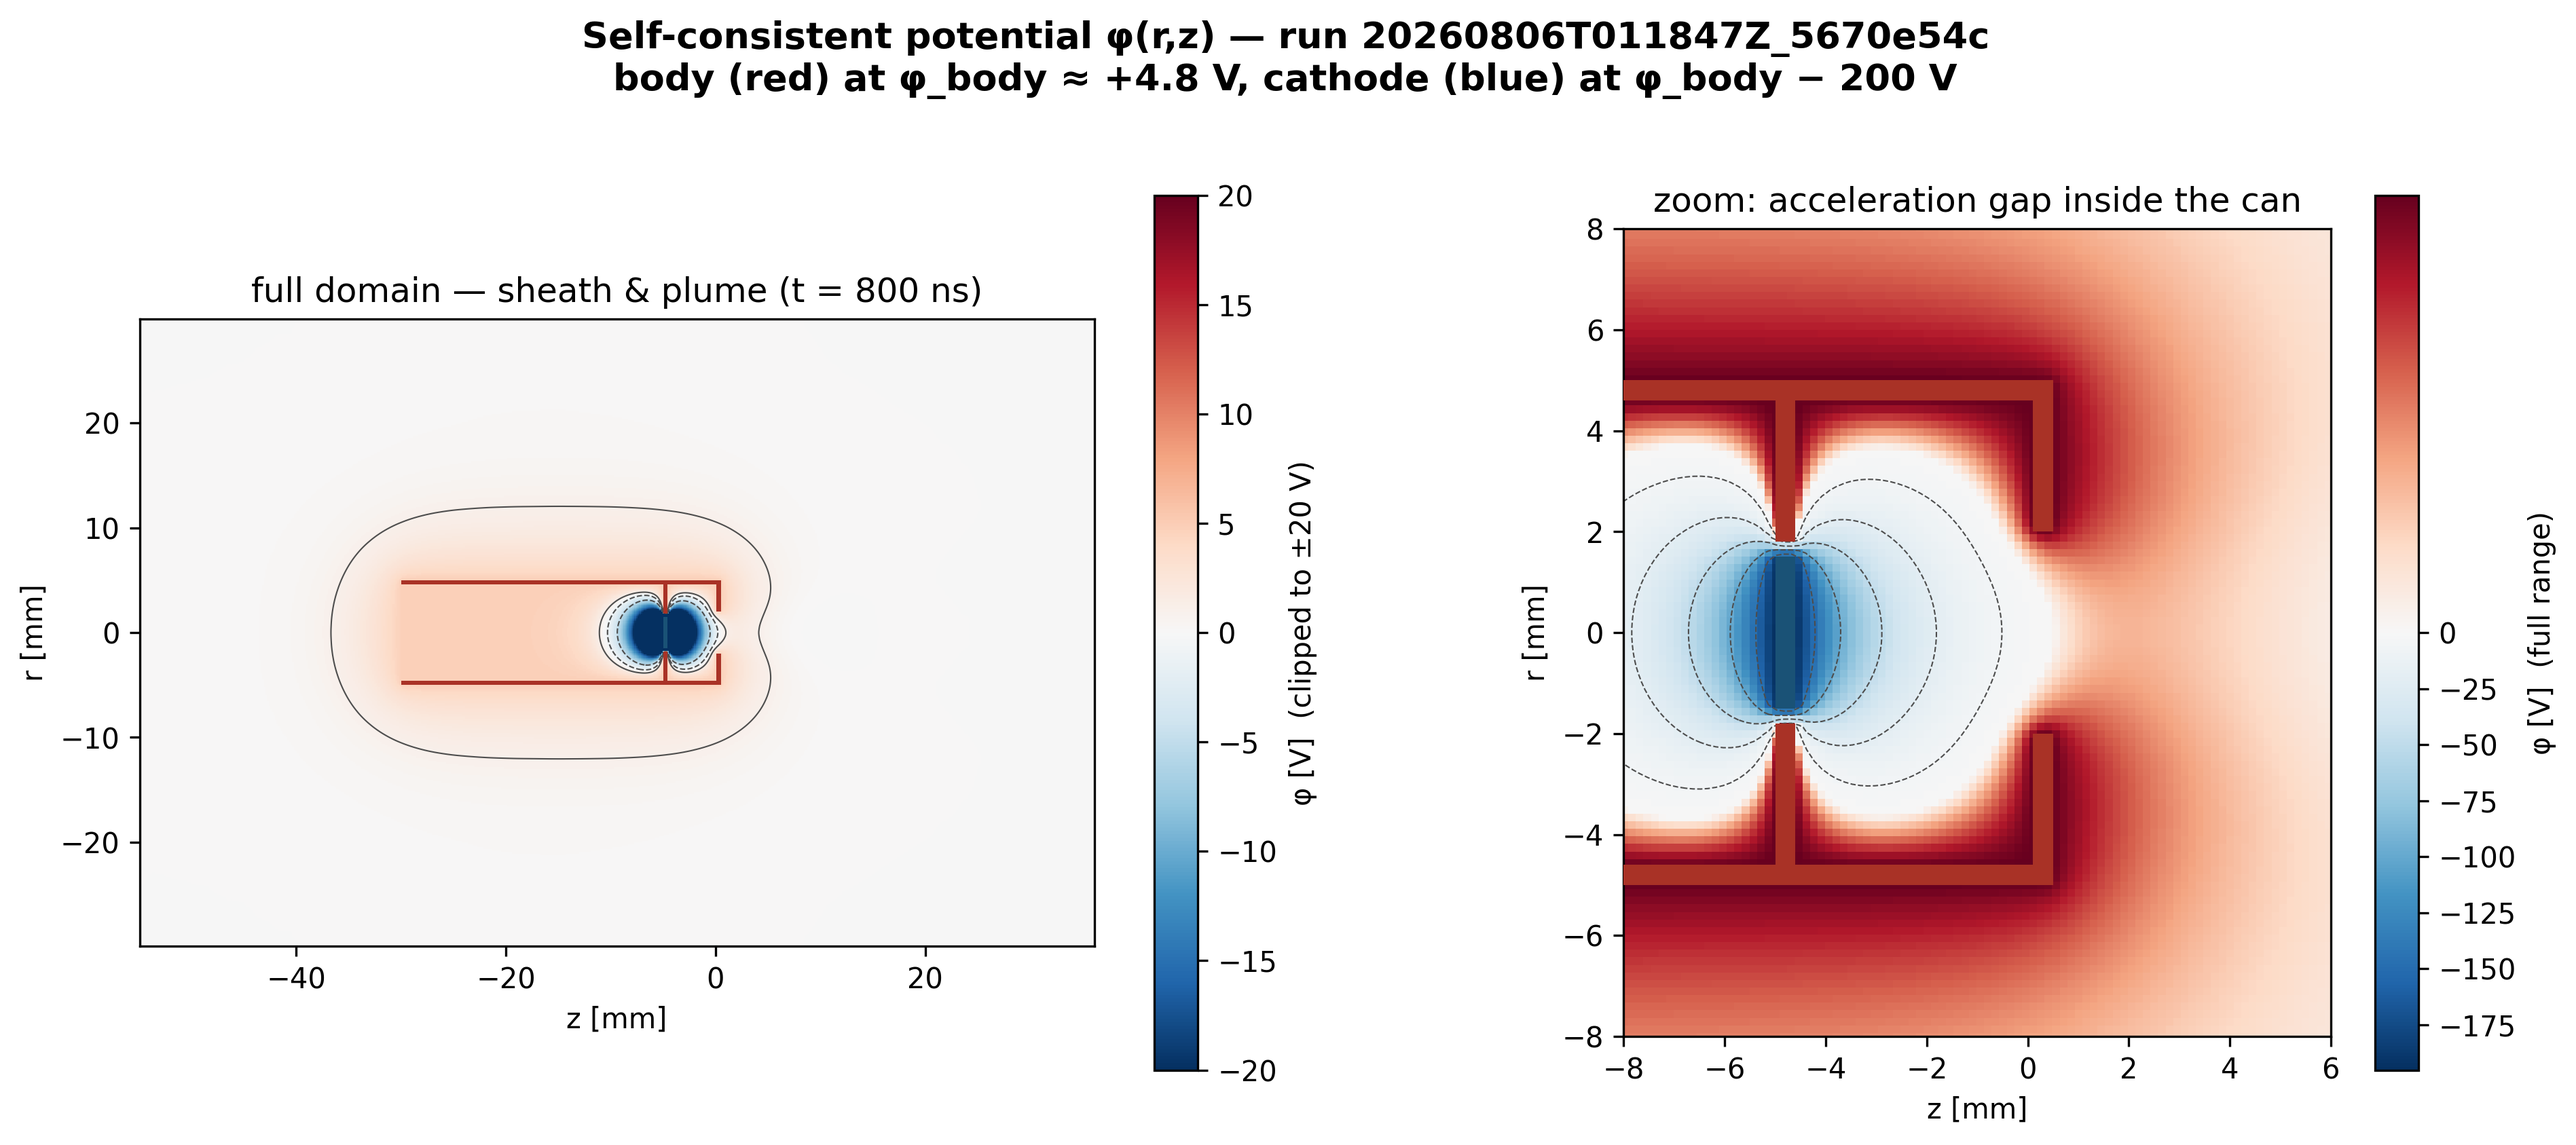
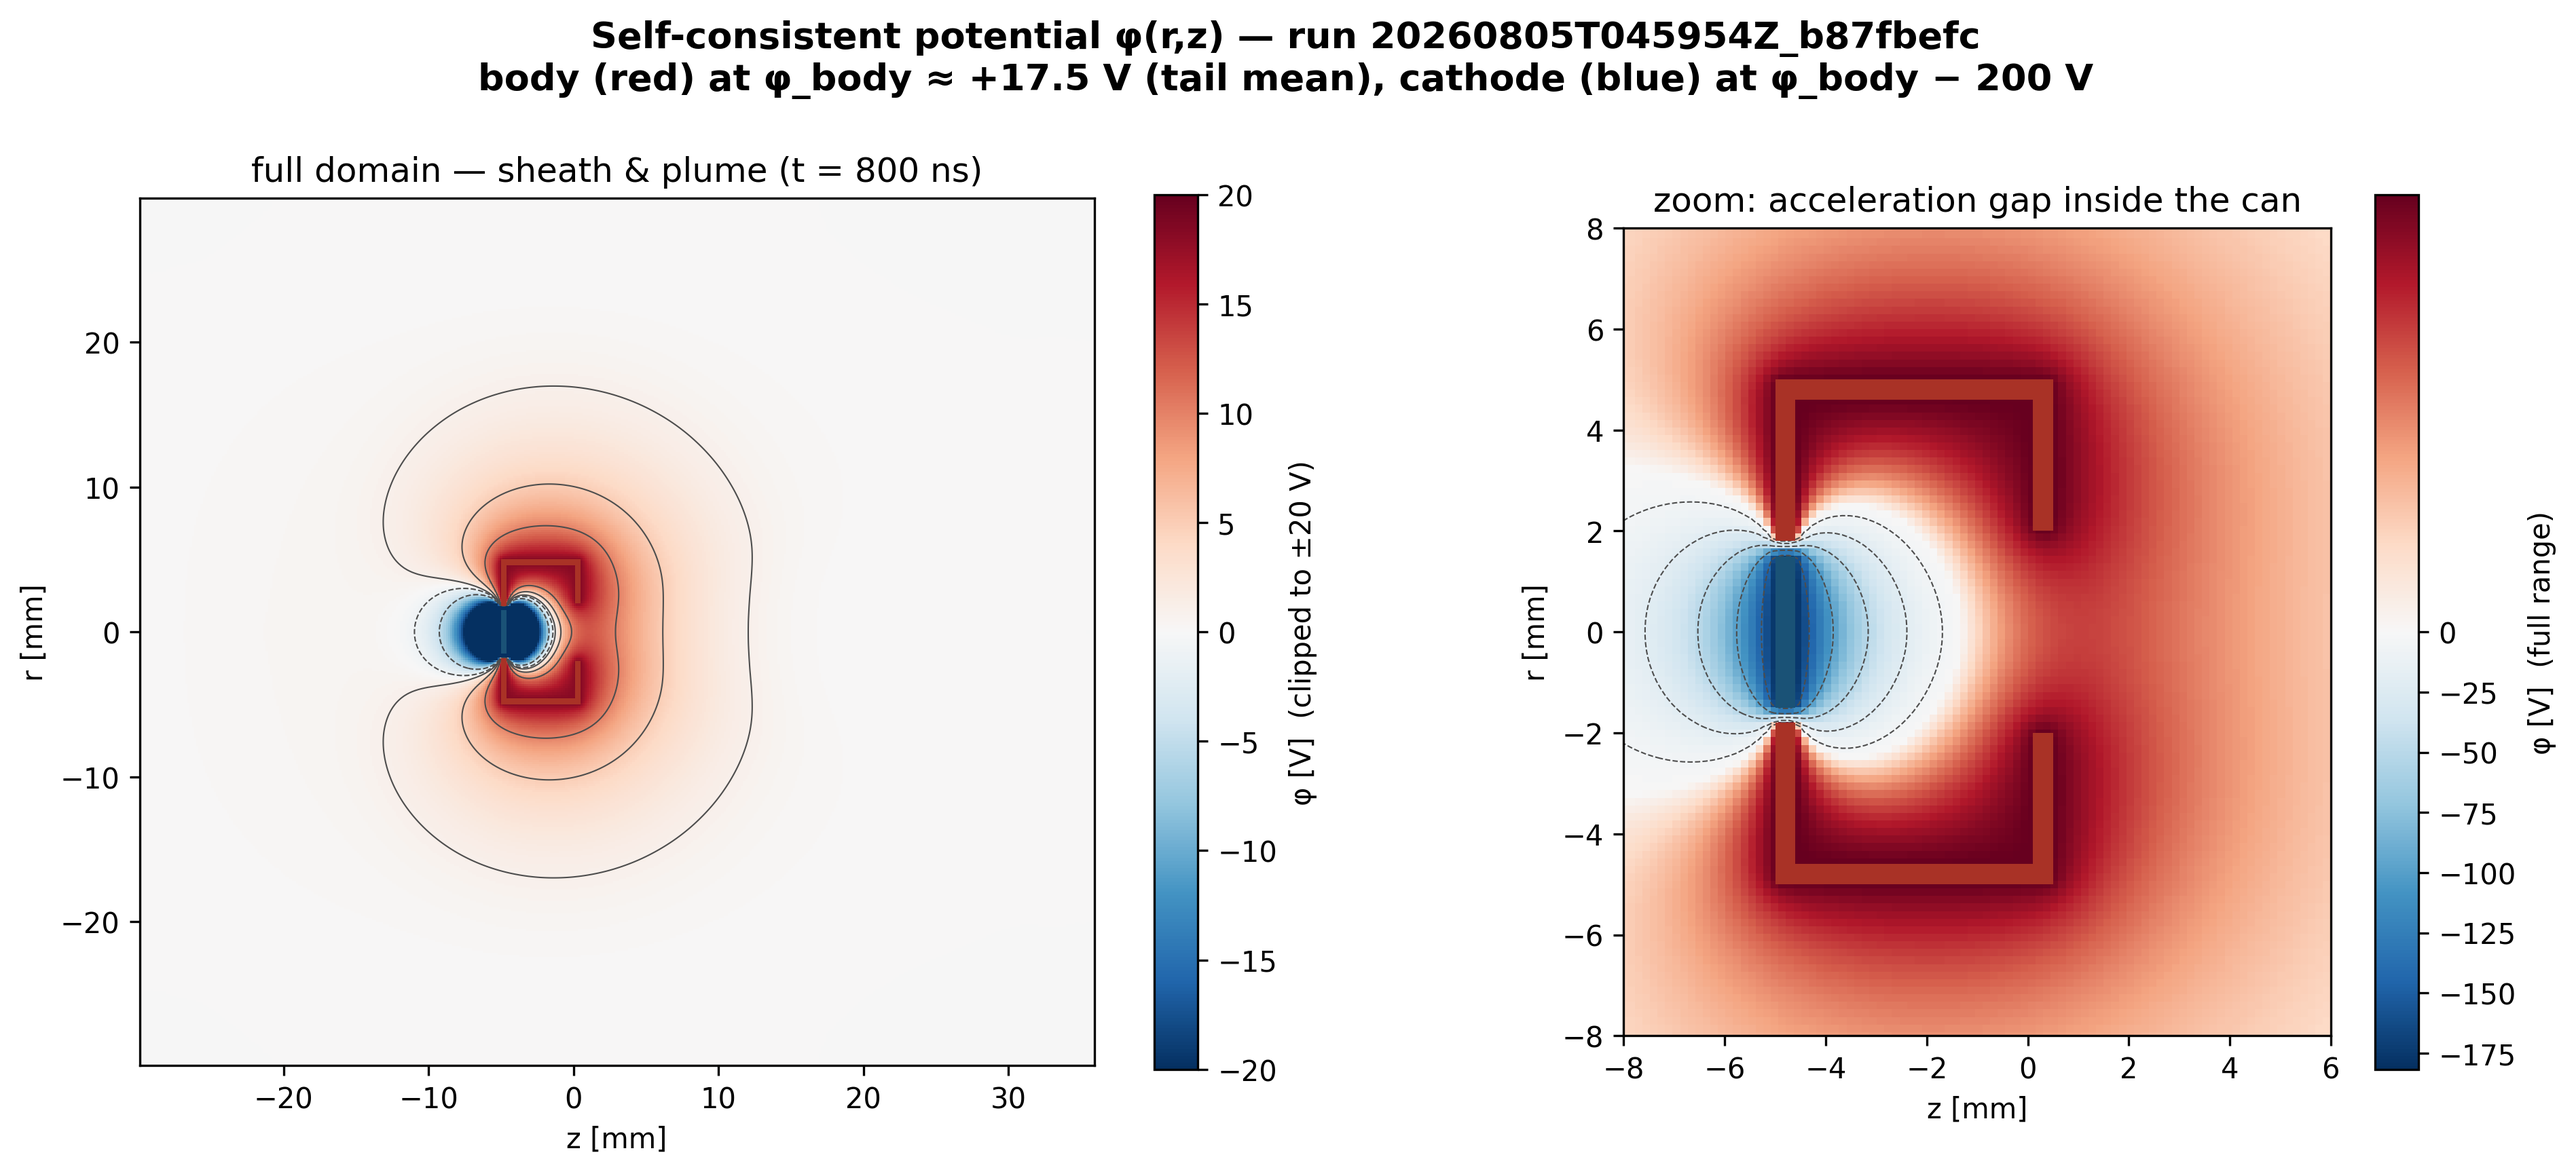
Point potential map at a baseline run and state what it demonstrates
outputs/LATEST is a slender-body exploratory variant (phi_body ~ +4.8 V,
30 mm can), so the embedded map did not match the schematic or Results.
Render instead from 20260805T045954Z_b87fbefc (baseline deck at ppc=32,
phi_body tail ~ +17.5 V, inside the +16 +- 4 V gate), report phi_body as
a 100 ns tail mean, and rewrite the README caption to name the three
facts the figure illustrates (containment, applied two-node pump, benign
float) and the run it comes from.

diff --git a/pic_sims/validation_cases/capstone/2_chipsat_thruster/viz/potential_map.py b/pic_sims/validation_cases/capstone/2_chipsat_thruster/viz/potential_map.py
@@ -81,7 +81,10 @@ def main(argv=None) -> int:
     PHI = np.vstack([phi[::-1], phi])
 
     ledger = load_ledger(evidence.diags_dir)
-    phi_body = float(np.atleast_1d(ledger["phi_body"])[-1])
+    t_l = np.atleast_1d(ledger["t"])
+    phi_l = np.atleast_1d(ledger["phi_body"])
+    tail = t_l > t_l[-1] - 100e-9
+    phi_body = float(phi_l[tail].mean())
 
     fig, (axL, axR) = plt.subplots(
         1, 2, figsize=(15, 6.2), facecolor="white",
@@ -118,8 +121,8 @@ def main(argv=None) -> int:
 
     fig.suptitle(
         f"Self-consistent potential φ(r,z) — run {evidence.run_id}\n"
-        f"body (red) at φ_body ≈ {phi_body:+.1f} V, cathode (blue) at "
-        f"φ_body − {abs(cfg.cathode_offset):.0f} V",
+        f"body (red) at φ_body ≈ {phi_body:+.1f} V (tail mean), cathode "
+        f"(blue) at φ_body − {abs(cfg.cathode_offset):.0f} V",
         fontsize=13, fontweight="bold")
 
     out = CASE_DIR / "viz" / f"potential_map_2_chipsat_thruster.{args.format}"

diff --git a/pic_sims/validation_cases/capstone/2_chipsat_thruster/README.md b/pic_sims/validation_cases/capstone/2_chipsat_thruster/README.md
@@ -118,7 +118,7 @@ From `acceptance.yaml` (policy: `capstone.floating_body.v2`):
 
 ![Potential map](viz/potential_map_2_chipsat_thruster.png)
 
-*Self-consistent φ(r,z) from the last field dump of the latest run (run id in the title): sheath and plume containment on the left (±20 V scale), the acceleration gap inside the can on the right (full −200…φ_body range). Body metal drawn red, cathode blue, matching the schematic. Regenerate with `python viz/potential_map.py`.*
+*Self-consistent φ(r,z) from the last field dump — an illustration of three gated/claimed facts, not a gate itself: (1) φ decays to ≈0 well inside the domain (the containment gate — escapes are genuine, not a clipped sheath); (2) the two-node charge pump is really applied (body at φ_body, cathode exactly 200 V below); (3) the craft floats benignly, perturbing the plasma by only a few volts, while the full 200 V drops inside the can's acceleration gap (right panel). Rendered from `20260805T045954Z_b87fbefc` (baseline deck at ppc = 32; φ_body tail ≈ +17.5 V, inside the +16 ± 4 V gate). Regenerate with `python viz/potential_map.py --run outputs/<run-id>` (defaults to `outputs/LATEST`, which may be an exploratory variant — the run id and geometry in the figure are the ground truth).*
 
 ## Results
 
